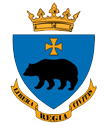
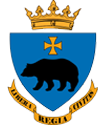
powiekszenie herbu przemysla

Changed region(s): [[0.0566, 0.0, 0.934, 1.0]]

diff --git a/index.html b/index.html
@@ -1598,7 +1598,7 @@ STANISŁAW SAWA
 							<li><p><img src="assets/images/ur106x125.jpg" alt="" ></p>
 									<h15>REKTOR UNIWERSYTETU RZESZOWSKIEGO</h15>
 									<p>Prof. dr hab. Sylwester Czopek</p></li>
-							<li><p><img src="assets/images/przemysl106x125.png" alt="" ></p>
+							<li><p><img src="assets/images/przemysl165x145.png" alt="" ></p>
 									<h15>PREZYDENT MIASTA PRZEMYŚLA</h15>
 									<p>Robert Choma</p></li>				<!--
 							
